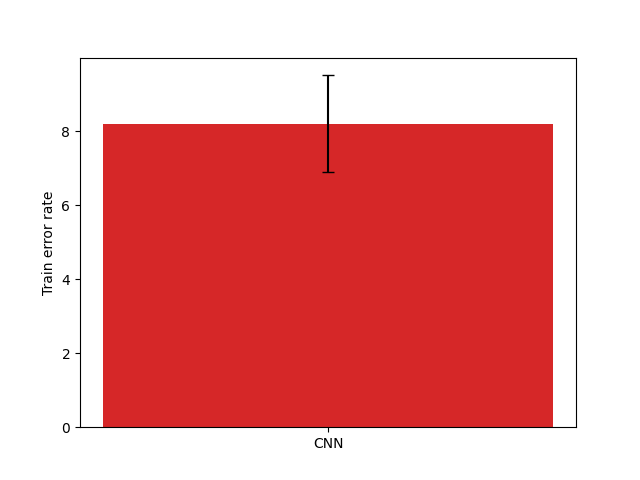
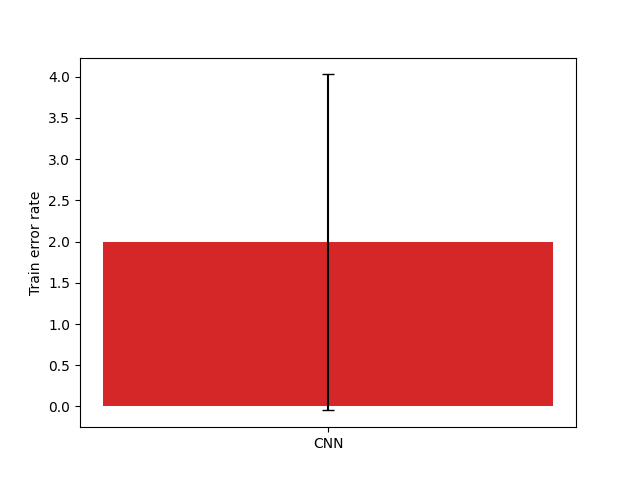
remove totally dropout in CNN

diff --git a/project1/models.py b/project1/models.py
@@ -11,7 +11,8 @@ from modelclass import Model
 class Baseline(Model):
     """ The Baseline model is composed only of fully-connected layers. """
 
-    def __init__(self, f_gen_data, nb_epochs=25, mini_batch_size=100, learning_rate=1e-3, l2_rate=1e-3):
+    def __init__(self, f_gen_data, nb_epochs=25, mini_batch_size=100, learning_rate=1e-3,
+                 l2_rate=1e-3):
         super().__init__(f_gen_data, nb_epochs, mini_batch_size, learning_rate, l2_rate)
 
         # layer 1
@@ -58,7 +59,8 @@ class Baseline(Model):
 class Auxiliary(Model):
     """ This model extends the baseline model by adding auxiliary loss """
 
-    def __init__(self, f_gen_data, nb_epochs=25, mini_batch_size=100, learning_rate=2e-2, l2_rate=1e-3):
+    def __init__(self, f_gen_data, nb_epochs=25, mini_batch_size=100, learning_rate=2e-2,
+                 l2_rate=1e-3):
         super().__init__(f_gen_data, nb_epochs, mini_batch_size, learning_rate, l2_rate)
 
         # tell parent class we use auxiliary loss
@@ -109,18 +111,17 @@ class Auxiliary(Model):
 class CNN(Model):
     """ This model implements weight sharing """
 
-    def __init__(self, f_gen_data, nb_epochs=25, mini_batch_size=100, learning_rate=1e-3, l2_rate=0.1):
+    def __init__(self, f_gen_data, nb_epochs=25, mini_batch_size=100, learning_rate=1e-3,
+                 l2_rate=0.1):
         super().__init__(f_gen_data, nb_epochs, mini_batch_size, learning_rate, l2_rate)
 
         # 1st layer : convolutional
         self.conv1 = nn.Conv2d(2, 32, kernel_size=5, padding=2)
         self.bn1 = nn.BatchNorm2d(32)
-        self.drop1 = nn.Dropout(0.2)
 
         # 2nd layer : convolutional
         self.conv2 = nn.Conv2d(32, 64, kernel_size=3, padding=3)
         self.bn2 = nn.BatchNorm2d(64)
-        self.drop2 = nn.Dropout(0.1)
 
         # 3rd layer : convolutional
         self.conv3 = nn.Conv2d(64, 32, kernel_size=3, padding=3)
@@ -143,15 +144,12 @@ class CNN(Model):
     def forward(self, x):
         # layer 1
         x = F.max_pool2d(F.relu(self.bn1(self.conv1(x))), kernel_size=3)
-        x = self.drop1(x)
 
         # layer 2
         x = F.max_pool2d(F.relu(self.bn2(self.conv2(x))), kernel_size=2)
-        x = self.drop2(x)
 
         # layer 3
         x = F.max_pool2d(F.relu(self.bn3(self.conv3(x))), kernel_size=2)
-        # x = self.drop3(x)
 
         # layer 4
         x = F.max_pool2d(F.relu(self.bn4(self.conv4(x))), kernel_size=2)
@@ -173,7 +171,8 @@ class CNN(Model):
 class CNN_Auxiliary(Model):
     """ This model implements weight sharing uses auxiliary loss """
 
-    def __init__(self, f_gen_data, nb_epochs=25, mini_batch_size=100, learning_rate=1e-3, l2_rate=0.1):
+    def __init__(self, f_gen_data, nb_epochs=25, mini_batch_size=100, learning_rate=1e-3,
+                 l2_rate=0.1):
         super().__init__(f_gen_data, nb_epochs, mini_batch_size, learning_rate, l2_rate)
 
         # tell parent class we use auxiliary loss
@@ -182,12 +181,10 @@ class CNN_Auxiliary(Model):
         # 1st layer : convolutional
         self.conv1 = nn.Conv2d(1, 32, kernel_size=5, padding=2)
         self.bn1 = nn.BatchNorm2d(32)
-        self.drop1 = nn.Dropout(0.2)
 
         # 2nd layer : convolutional
         self.conv2 = nn.Conv2d(32, 64, kernel_size=3, padding=3)
         self.bn2 = nn.BatchNorm2d(64)
-        self.drop2 = nn.Dropout(0.1)
 
         # 3rd layer : convolutional
         self.conv3 = nn.Conv2d(64, 32, kernel_size=3, padding=3)
@@ -210,11 +207,9 @@ class CNN_Auxiliary(Model):
     def forward(self, x):
         # layer 1
         x = F.max_pool2d(F.relu(self.bn1(self.conv1(x))), kernel_size=3)
-        x = self.drop1(x)
 
         # layer 2
         x = F.max_pool2d(F.relu(self.bn2(self.conv2(x))), kernel_size=2)
-        x = self.drop2(x)
 
         # layer 3
         x = F.max_pool2d(F.relu(self.bn3(self.conv3(x))), kernel_size=2)
@@ -236,3 +231,4 @@ class CNN_Auxiliary(Model):
 
     def reset(self):
         self.__init__(self.generate_data, self.epochs, self.batch_size, self.lr)
+

diff --git a/project1/test.py b/project1/test.py
@@ -37,7 +37,7 @@ def train_and_test_rounds(model, nb_rounds, test_id):
 
 
 def main():
-    number_rounds = 15
+    number_rounds = 10
 
     model1 = Baseline(generate_pair_sets)
     mRes1 = train_and_test_rounds(model1, number_rounds, "Baseline")
@@ -51,8 +51,7 @@ def main():
     model4 = CNN_Auxiliary(generate_pair_sets)
     mRes4 = train_and_test_rounds(model4, number_rounds, "CNN_Aux")
 
-    # plot_model_result(mRes4, number_rounds)
-    # plot_models_results_comparison([mRes4], number_rounds, True)
+    # plot_models_results_comparison([mRes3, mRes4], number_rounds, True)
     plot_models_results_comparison([mRes1, mRes2, mRes3, mRes4], number_rounds, True)
 
 
